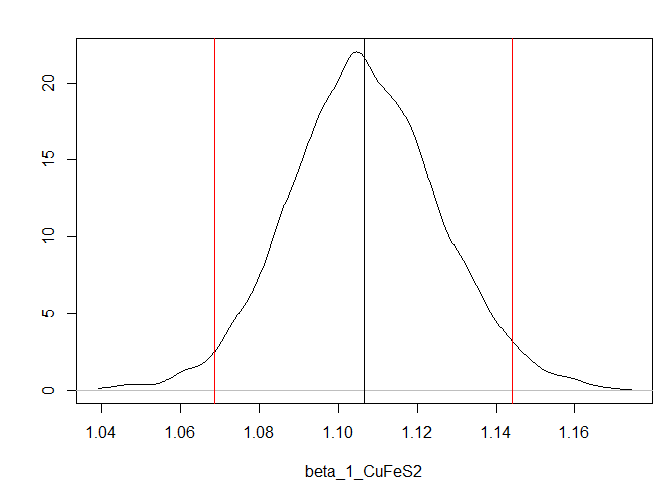
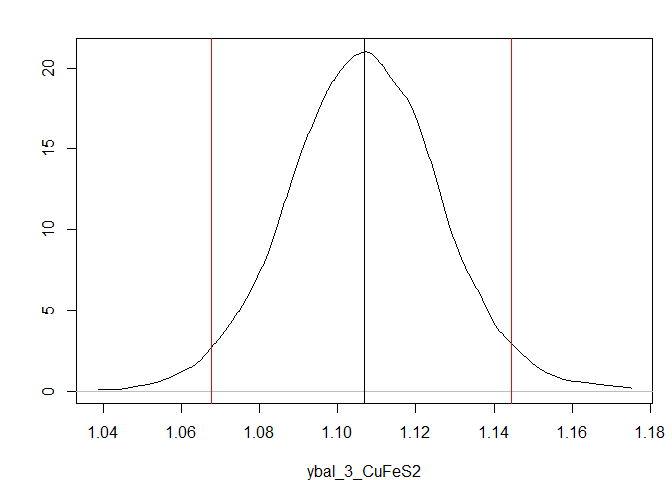
Decided to use github instea of some other cloud service

diff --git a/README.md b/README.md
@@ -95,40 +95,46 @@ Then, the `BMB` function is used to generate the distribution of
 constrained masses from the data with `cov.structure = "indep"`.
 
 ``` r
-indep.samples <- BMB(X = X, y = y, cov.structure = "indep", BTE = c(100,3000,1), lml = TRUE)
+indep.samples <- BMB(X = X, y = y, cov.structure = "indep", BTE = c(100,3000,1), lml = TRUE, verb = 0)
 ```
 
-To obtain draws from the distribution of mass at each sample location,
-in the same format as is seen in `y`, the draws of `beta` are simply
-multiplied by `X`.
-
-``` r
-X.g <- X
-y.bal <- lapply(indep.samples$beta,function(X,C = X.g){C %*% X})
-```
-
-The density of the
-![\\beta\_1](https://latex.codecogs.com/png.latex?%5Cbeta_1 "\\beta_1")
-samples for CuFeS2 can be plotted with the 95% HPDI
+The output of `BMB` is a `BayesMassBal` object. Special instructions are
+designated when feeding a `BayesMassBal` object to the `plot()`
+function. Adding the argument `layout = "dens"` and indicating the mass
+balanced flow rate for CuFeS2 at
+![y\_3](https://latex.codecogs.com/png.latex?y_3 "y_3") should be
+plotted, by using a list supplied to `sample.params`, the desired
+distribution can be plotted with the 95% HPDI.
 
 ``` r
 
-plot(indep.samples,sample.params = list(beta = list(CuFeS2 = 1)),
+plot(indep.samples,sample.params = list(ybal = list(CuFeS2 = 3)),
     layout = "dens",hdi.params = c(1,0.95))
 ```
 
 <img src="man/figures/README-feedplot-1.png" width="100%" />
 
-However, this may not be the best fitting model. Models specifying
-covariance between sample locations for a single component, and
-covariance between components at a single location are fit.
+It is also possible to generate trace plots to inspect convergence of
+the Gibbs sampler. Here are trace plots for
+![\\beta](https://latex.codecogs.com/png.latex?%5Cbeta "\\beta")
 
 ``` r
-component.samples <- BMB(X = X, y = y, cov.structure = "component", BTE = c(100,3000,1), lml = TRUE)
+plot(indep.samples,sample.params = list(beta = list(CuFeS2 = 1:3, gangue = 1:3)),layout = "trace",hdi.params = c(1,0.95))
+```
+
+<img src="man/figures/README-traceplot-1.png" width="100%" />
+
+The model with independent variances may not be the best fitting model.
+Models specifying covariance between sample locations for a single
+component, and covariance between components at a single location are
+fit.
+
+``` r
+component.samples <- BMB(X = X, y = y, cov.structure = "component", BTE = c(100,3000,1), lml = TRUE, verb = 0)
 ```
 
 ``` r
-location.samples <- BMB(X = X, y = y, cov.structure = "location", BTE = c(100,3000,1), lml = TRUE)
+location.samples <- BMB(X = X, y = y, cov.structure = "location", BTE = c(100,3000,1), lml = TRUE, verb = 0)
 ```
 
 Computing ![\\log(\\mathrm{Bayes
@@ -139,7 +145,7 @@ p(y|\\texttt{indep})/p(y|\\texttt{component})](https://latex.codecogs.com/png.la
 
 ``` r
 indep.samples$lml - component.samples$lml
-#> [1] -138.7364
+#> [1] -138.6937
 ```
 
 Then comparing
@@ -150,24 +156,16 @@ Then comparing
 
 ``` r
 component.samples$lml - location.samples$lml
-#> [1] 0.8505669
+#> [1] 0.8201977
 ```
 
-Creating a trace plot for the values of
-![\\beta](https://latex.codecogs.com/png.latex?%5Cbeta "\\beta")
-
-``` r
-plot(indep.samples,sample.params = list(beta = list(CuFeS2 = 1:3, gangue = 1:3)),layout = "trace",hdi.params = c(1,0.95))
-```
-
-<img src="man/figures/README-traceplot-1.png" width="100%" />
-
-Supplying a function, `fn` that takes the arguments of mass balanced
-flow rates `ybal`, and random independent and uniformly distributed
-variables `x`, information can be gained on the main effect of a
-particular element of `x`, `xj`, on `fn` using the `mainEff` function.
-Output from `mainEff` inlcudes information on the distribution of
-![E\_x\\lbrack f(x,y\_{\\mathrm{bal}})|x\_j
+The main effect of a variable independent of the process can be
+calculated by supplying a function, `fn` that takes the arguments of
+mass balanced flow rates `ybal`, and therandom independent and uniformly
+distributed variables `x`. Information can be gained on the main effect
+of a particular element of `x`, `xj`, on `fn` using the `mainEff`
+function. Output from `mainEff` inlcudes information on the distribution
+of ![E\_x\\lbrack f(x,y\_{\\mathrm{bal}})|x\_j
 \\rbrack](https://latex.codecogs.com/png.latex?E_x%5Clbrack%20f%28x%2Cy_%7B%5Cmathrm%7Bbal%7D%7D%29%7Cx_j%20%5Crbrack
 "E_x\\lbrack f(x,y_{\\mathrm{bal}})|x_j \\rbrack").
 
@@ -189,8 +187,8 @@ rangex <- matrix(c(4.00 ,6.25,1125,1875,3880,9080,20,60,96,208,20.0,62.5),
 mE_example <- mainEff(indep.samples, fn = "fn_example",rangex =  rangex,xj = 3, N = 25, res = 25)
 ```
 
-For example, a plot of the output can be made. To get lines that are
-better connected, change increase `N` in the `mainEff` function.
+A plot of the output can be made. To get lines that are better
+connected, change increase `N` in the `mainEff` function.
 
 ``` r
 m.sens<- mE_example$fn.out[2,]

diff --git a/cran-comments.md b/cran-comments.md
@@ -1,0 +1,18 @@
+## Test environments
+* local windows install, R Microsoft Open 3.5.3
+* ubuntu 16.04 xenial (on travis-ci), R 3.6.3
+* ubuntu 16.04 xenial (on travis-ci), R 4.0.0
+* ubuntu 16.04 xenial (on travis-ci), R devel
+* OSX (on travis-ci), R 3.6.3
+* OSX (on travis-ci), R 4.0.2
+* Windows Server (on appveyor), R 4.0.2
+
+## R CMD check results
+
+0 errors | 0 warnings | 0 notes
+
+## Downstream dependencies
+
+There are currently no downstream dependencies for this package.
+
+* This is a new release.
